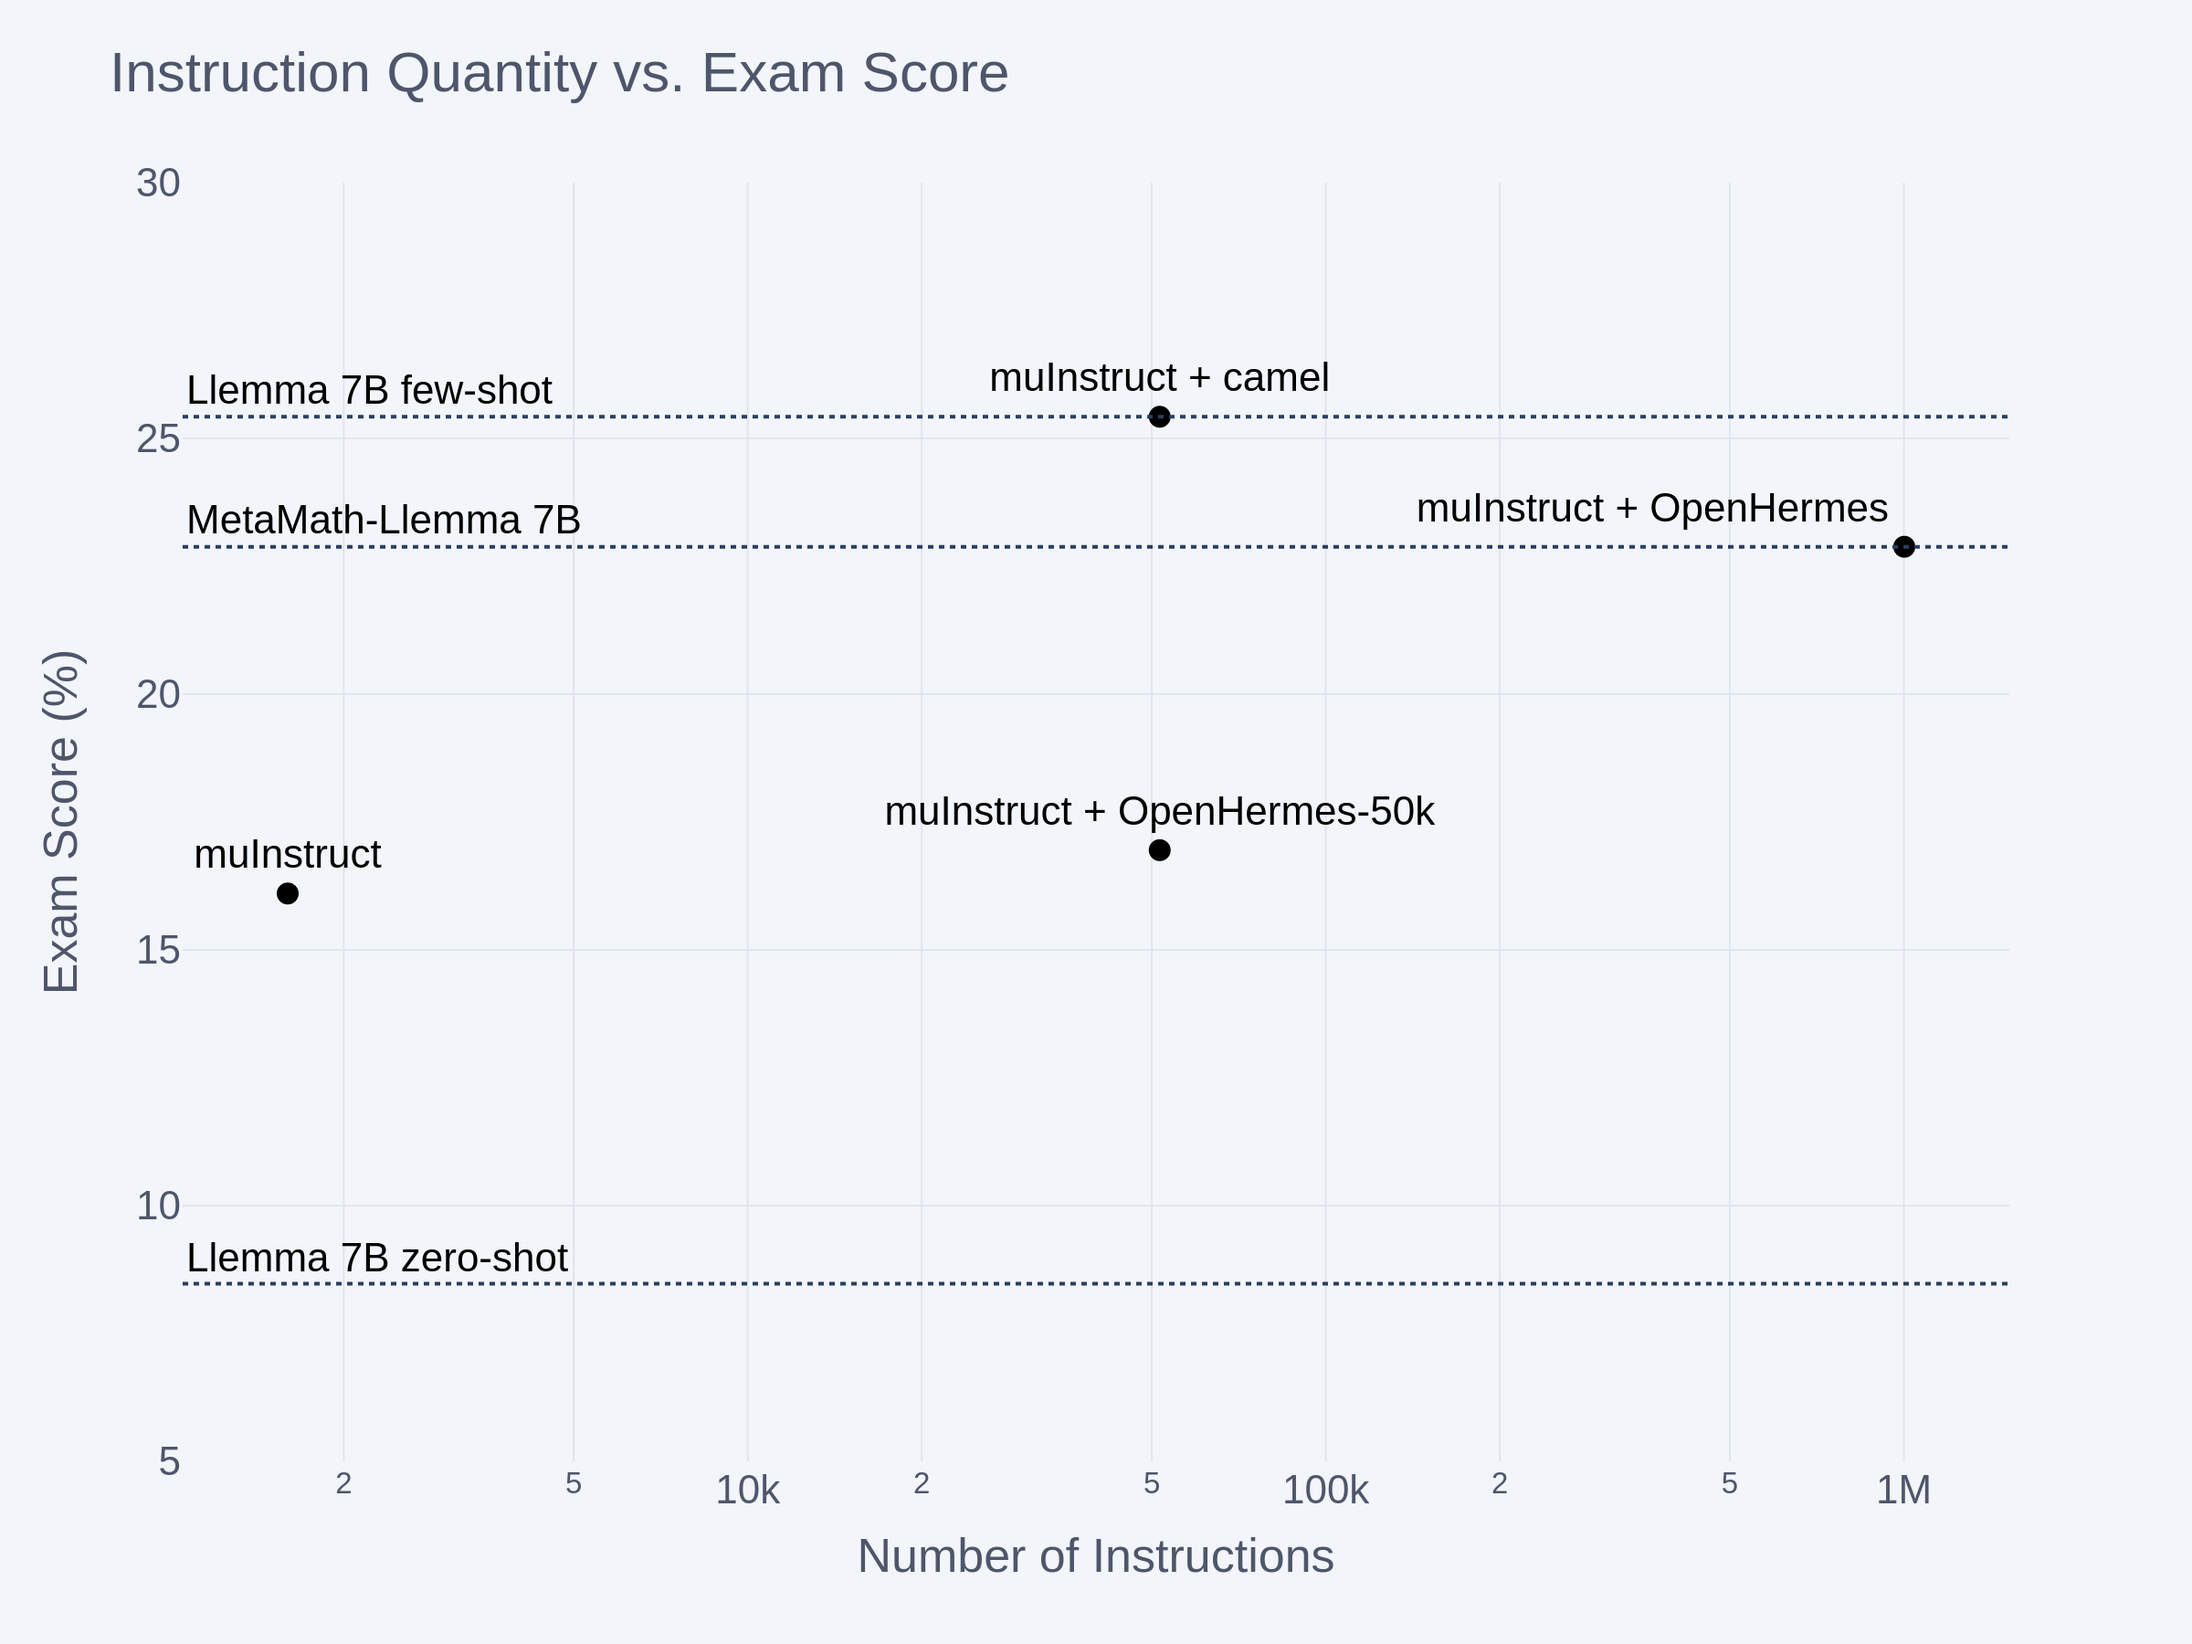
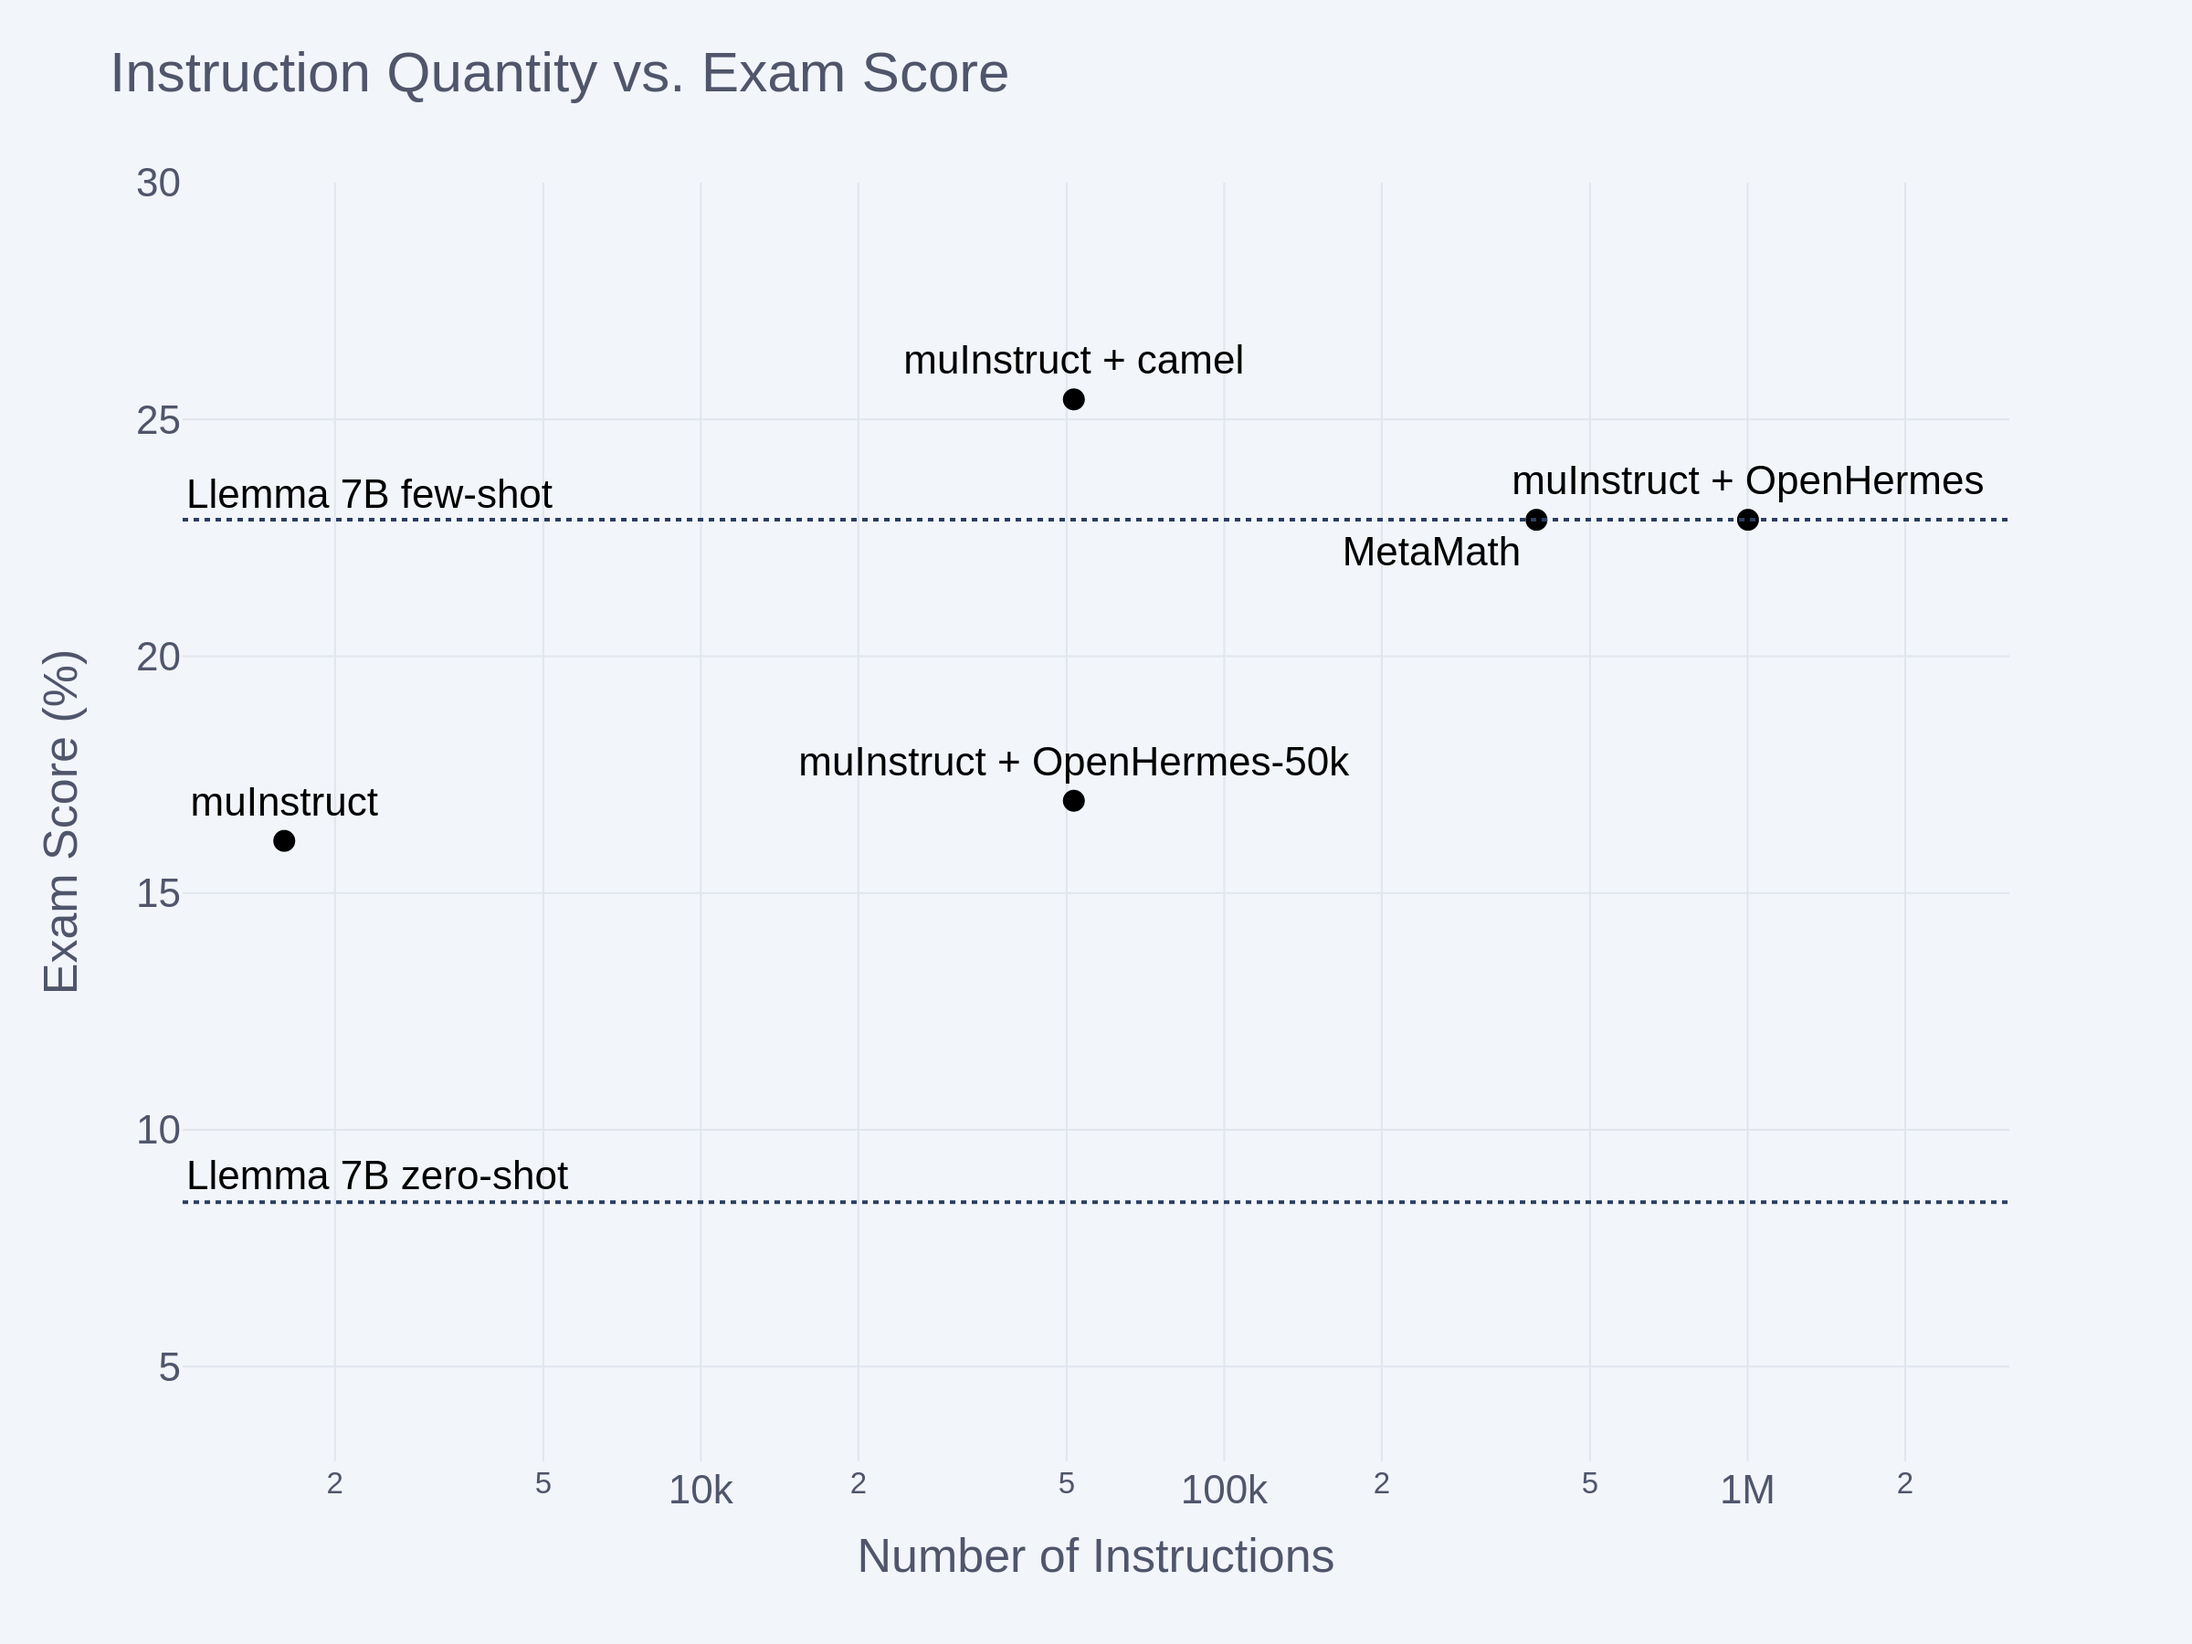
update figure

diff --git a/instruct_blogpost.md b/instruct_blogpost.md
@@ -27,8 +27,8 @@ Our experimental results are below.
 
 <img src="assets/results2.png" alt="alt text" width="600" height="450"/>
 
-Our results do not appear to be consistent with the SAH. Most notably, we are only able to recover the performance of few-shot prompted by Llemma by training on camel math, which has lower data quality than μInstruct but makes up for it with greater quantity. 
+Our results do not appear to be consistent with the SAH. Most notably, we are only able to recover the performance of few-shot prompted by Llemma by training on datasets with at least 50k instructions. 
 
-Furthermore, these results illustrate the potential dangers of finetuning. Unless finetuning is done very carefully with a well-optimized data mixture, the finetuned model may perform much worse than the few-shot baseline. It is also worth noting that although `MetaMath-Llemma 7B` beats `Llemma 7B` by a large margin on MATH, the MetaMath model is weaker on Hungarian math. This result suggests the MetaMath model is highly specialized towards the MATH problem distribution and has weaker general problem-solving ability than its MATH score would suggest. 
+Furthermore, these results illustrate the potential dangers of finetuning. Unless finetuning is done very carefully with a sufficiently large dataset and a well-optimized data mixture, the finetuned model may perform much worse than the few-shot baseline. It is also worth noting that although `MetaMath-Llemma 7B` beats `Llemma 7B` by a large margin on MATH, the MetaMath finetuning doesn't yield an advantage on Hungarian math. This result suggests the MetaMath model is highly specialized towards the MATH problem distribution and has weaker general problem-solving ability than its MATH score would suggest. 
 
 The most important limitation of our findings is that `Llemma 7B` is a small model by 2024 standards, and larger models are both more sample efficient and have greater reasoning capabilities that may be harmed by poor quality data. Both of these factors would suggest small high-quality datasets work better for larger models. 
